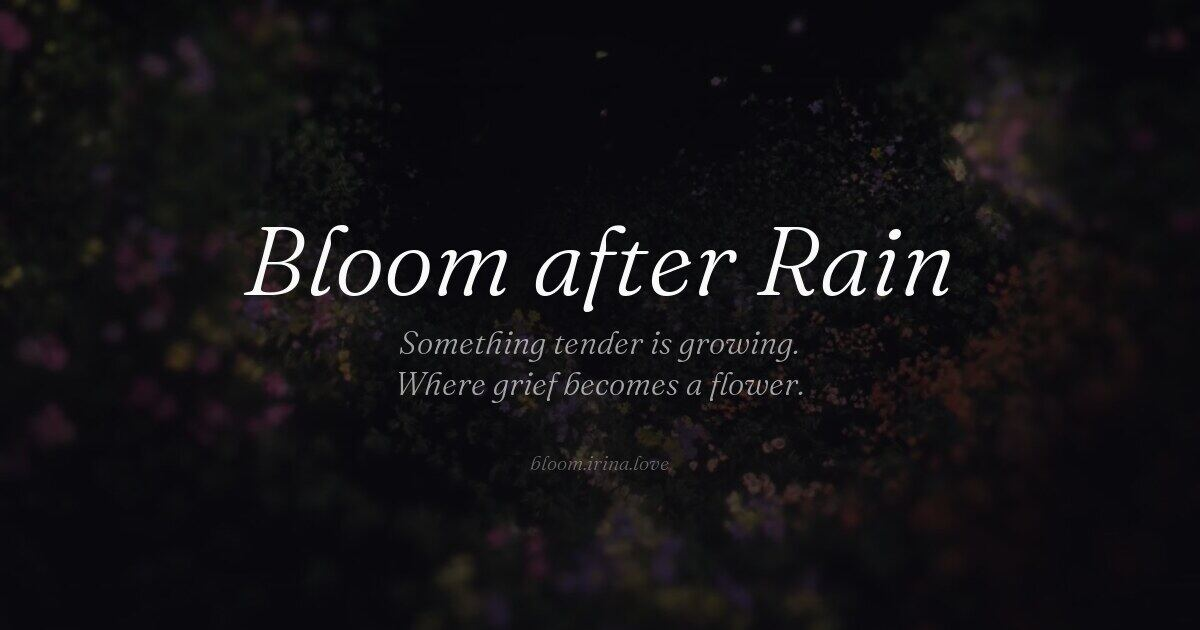
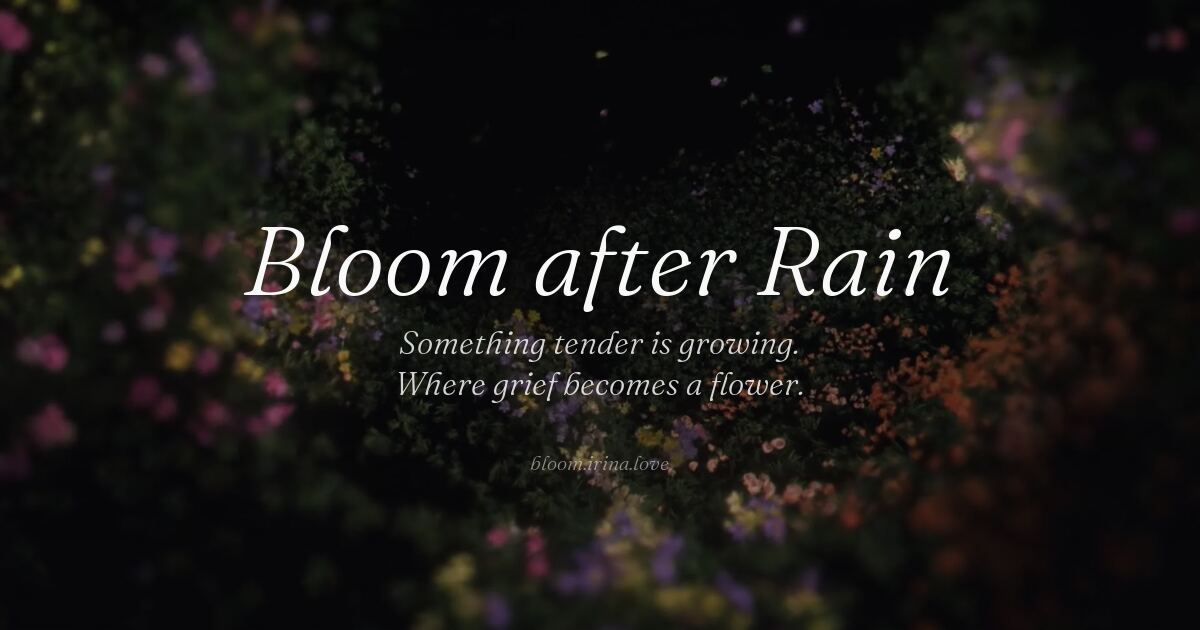
Lighten hero video opacity 0.45→0.82, lighten OG image overlay

diff --git a/css/style.css b/css/style.css
@@ -146,7 +146,7 @@ a {
   width: 100%;
   height: 100%;
   object-fit: cover;
-  opacity: 0.45;
+  opacity: 0.82;
   z-index: 0;
 }
 
